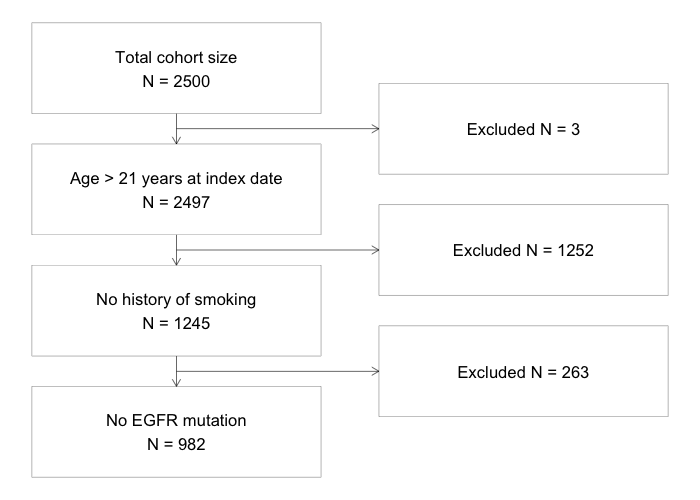
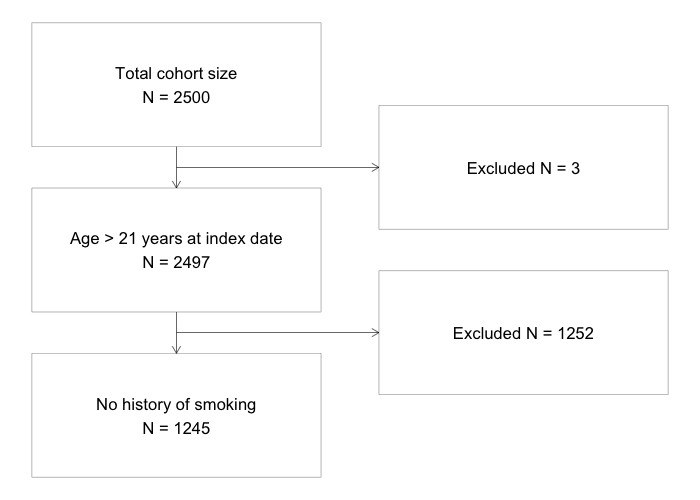
results without excluding EGFR patients

diff --git a/README.md b/README.md
@@ -79,13 +79,11 @@ attrition <- get_attrition(
   criteria_descriptions = c(
     "Age > 21 years at index date"
     , "No history of smoking"
-    , "No EGFR mutation"
     ),
   # coded condition
   criteria_conditions   = c(
     "age_num > 21"
     , "smoking_cat == 0"
-    , "egfr_cat == 0"
     ),
   # patient ID column
   subject_column_name   = "patientID"
@@ -178,7 +176,7 @@ coxph(
     # A tibble: 1 × 5
       term     estimate robust.se conf.low conf.high
       <chr>       <dbl>     <dbl>    <dbl>     <dbl>
-    1 exposure    0.916    0.0842    0.776      1.08
+    1 exposure    0.826    0.0742    0.714     0.955
 
 ## Appendix
 
